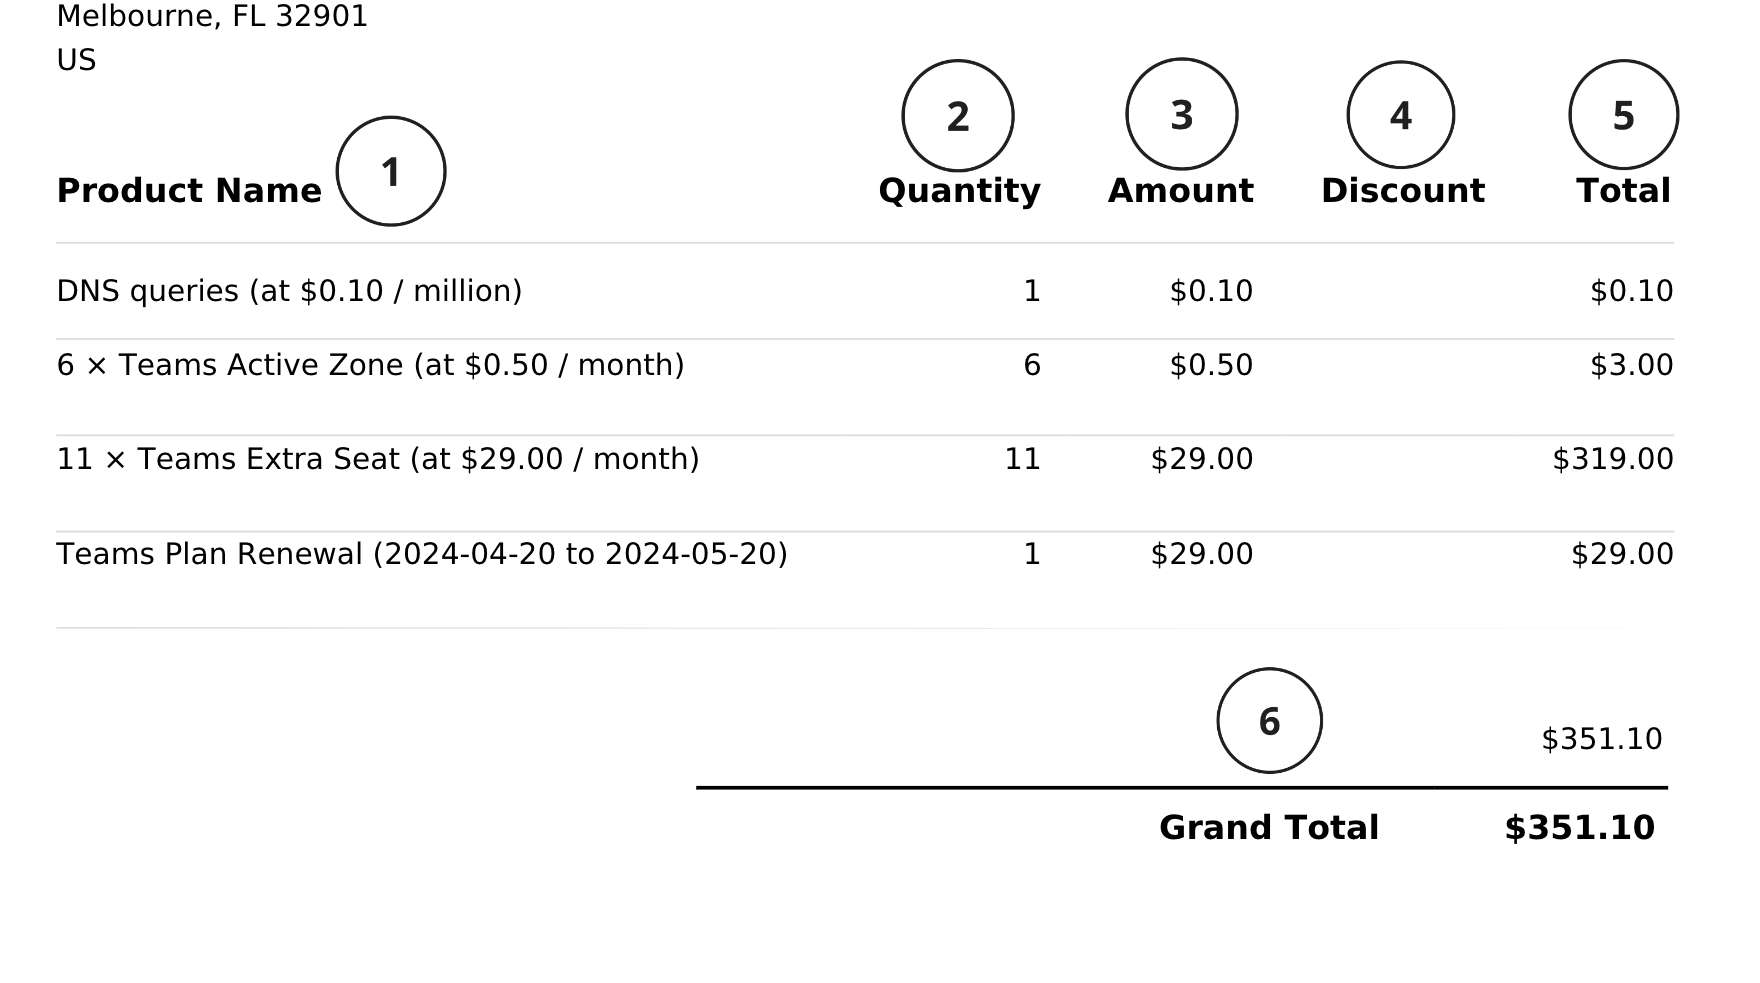
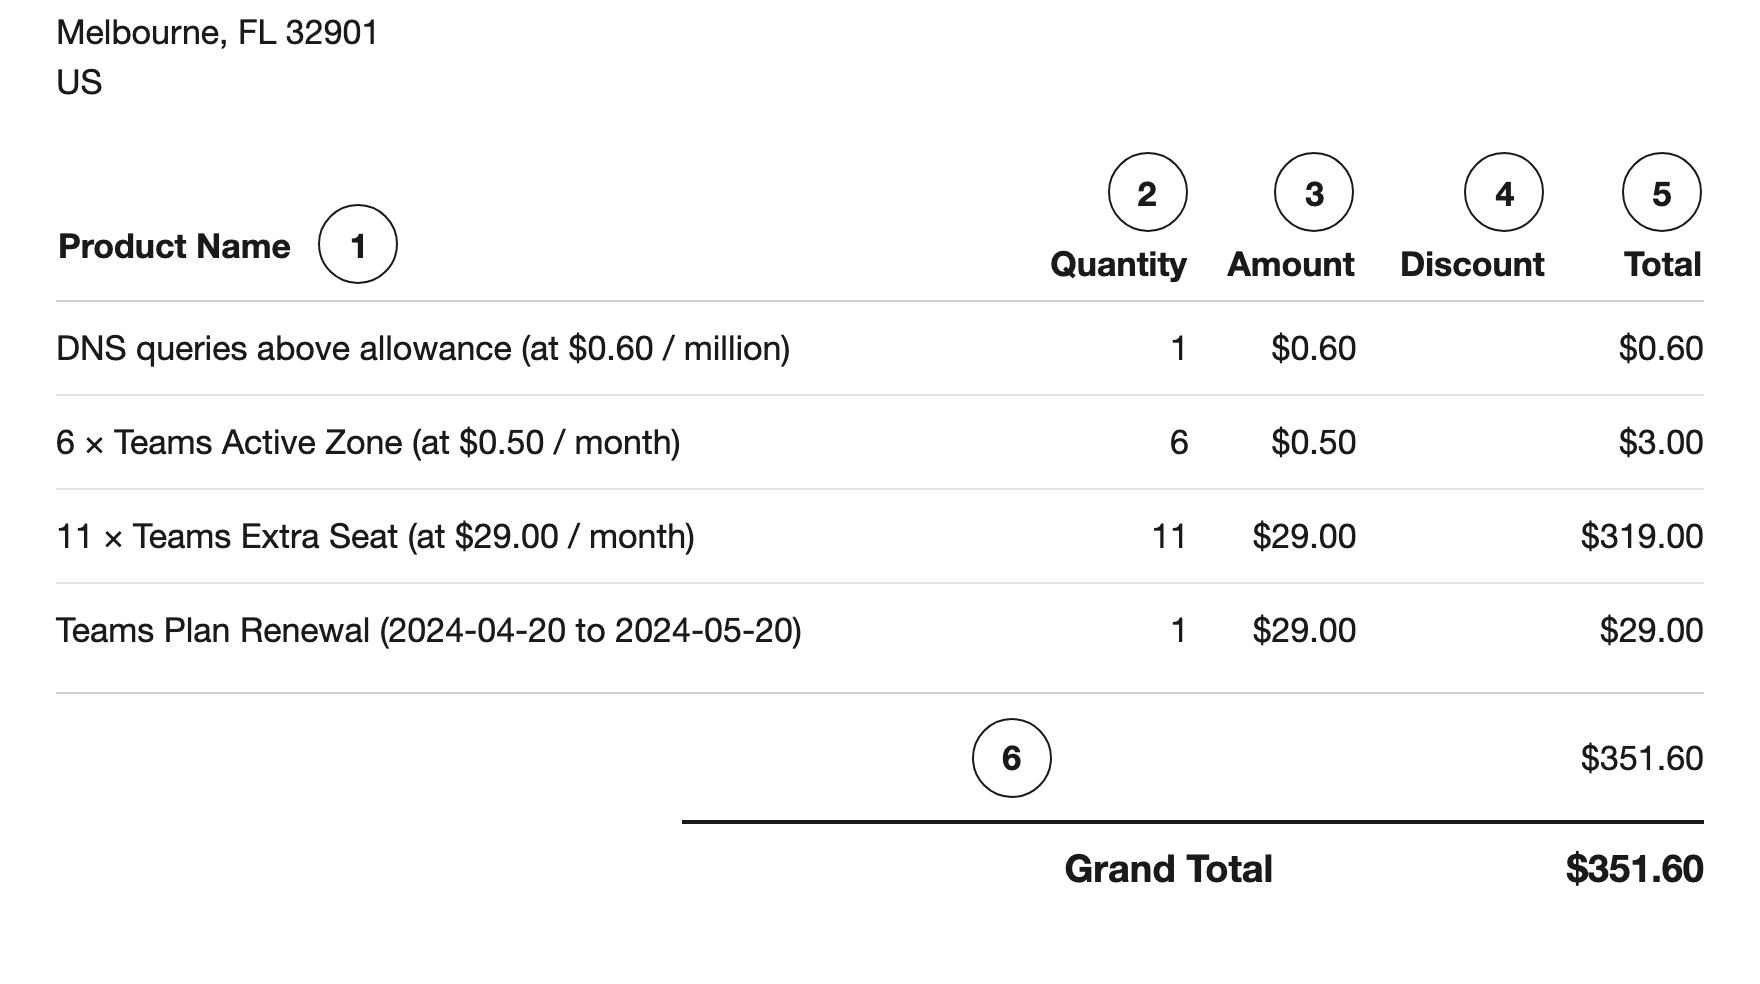
Document the included DNS query allowance (#2107)
* Add a markdownlint config matching the article conventions

markdownlint defaults contradict the house style on thousands of counts, and
the pre-commit hook re-runs with --fix on failure, so an unconfigured lint
would rewrite the corpus. Disable or configure the rules the conventions
override, and keep the rest on. Also close the one MD039 offence this turns up
in the plans article, so the file can be committed.

* Document the included DNS query allowance on Solo and Teams

Every zone on Solo and Teams now includes a monthly allowance of DNS queries at
no charge, and only the volume above it is billed. Rewrite the query fees
article around allowances and the new per-million rates, retitle it, and bring
the plans, invoice, and renewal articles in line so none of them still describe
billing from the first query.

* Align the balance note and the sample invoice with the allowance

* Qualify the allowance, pin the published anchors, use dashes

* Say when the allowance applies, and carry it into plan changes

The rewritten allowance article states the new pricing as though it
were already everyone's pricing. A subscription is assigned its query
pricing when it is created and when it changes plan, so an existing
subscriber reading the article sees an allowance their invoice does
not show yet. Answer that directly instead of leaving the note to
hint at it, and send them to the usage page, which states which
pricing the subscription is on.
[…]

diff --git a/content/articles/dns-query-limits.md b/content/articles/dns-query-limits.md
@@ -1,16 +1,14 @@
 ---
-title: DNS Query Volume Fees
-excerpt: We charge $0.10 per million queries per zone.
-meta: Learn about DNS query limits and pricing at DNSimple. Understand the cost of $0.10 per million queries per zone to optimize your domain management.
+title: DNS Query Allowances and Volume Fees
+excerpt: Every zone on a Solo or Teams plan includes a monthly allowance of DNS queries at no charge, and only the volume above that allowance is billed.
+meta: Solo includes 50,000 DNS queries per zone per month and Teams includes 500,000, at no charge. DNSimple bills only the query volume above your plan's allowance, at $0.80 per million on Solo and $0.60 per million on Teams.
 categories:
 - DNSimple
 ---
 
-# DNS Query Volume Fees
+# DNS Query Allowances and Volume Fees
 
-We charge $0.10 per million queries per zone on Solo and Teams plans.
-
-DNS query volume fees are calculated at this price every time the registered volume goes beyond any given million-query mark, starting at zero queries.
+Each zone on a Solo or Teams plan includes a monthly allowance of DNS queries at no charge, and DNSimple bills only the volume above it. Solo includes 50,000 queries per zone per month, then $0.80 per million. Teams includes 500,000 queries per zone per month, then $0.60 per million. Enterprise plans have custom contract pricing.
 
 ### Table of Contents {#toc}
 
@@ -19,38 +17,61 @@ DNS query volume fees are calculated at this price every time the registered vol
 
 ---
 
-## Calculating your fees
+## Query allowances and rates {#rates}
 
-- 1 - 999,999 queries is $0.10
-- 1M - 1,999,999 queries is $0.20
-- 2M - 2,999,999 queries is $0.30
+| Plan | Included per zone per month | Price above the allowance |
+|------|-----------------------------|---------------------------|
+| Solo | 50,000 queries | $0.80 per million |
+| Teams | 500,000 queries | $0.60 per million |
+| Enterprise | Custom | Custom |
 
-And so on.
+The allowance applies to each zone on its own. A zone that stays within its allowance costs nothing in query fees, no matter how many other zones you host. The allowance is not prorated, so every zone receives the full allowance in every billing cycle.
 
-We won't charge fractions of the price. Any volume greater or equal to 1M and less than 2M will cost $0.20.
+> [!NOTE]
+> Query pricing is set on your subscription when the subscription is created and when you change plans. To confirm the rates on your account, open the Billing and plans page or [contact support](/articles/dnsimple-support/).
+
+## Calculating your fees {#calculating-your-fees}
+
+Subtract the allowance from the zone's monthly query volume, round the remainder up to the next full million, and multiply by your plan's rate. DNSimple does not charge fractions of a million.
+
+On the Solo plan, with a 50,000-query allowance at $0.80 per million:
+
+- 40,000 queries is $0.00, because the zone stays within its allowance
+- 300,000 queries is $0.80, because the 250,000 queries above the allowance round up to one million
+- 1,200,000 queries is $1.60, because the 1,150,000 queries above the allowance round up to two million
+
+On the Teams plan, with a 500,000-query allowance at $0.60 per million:
+
+- 500,000 queries is $0.00
+- 900,000 queries is $0.60, because the 400,000 queries above the allowance round up to one million
+- 3,000,000 queries is $1.80, because the 2,500,000 queries above the allowance round up to three million
+
+Each zone is calculated separately, and the results are added together on your [invoice](/articles/understanding-invoice/).
 
 **Try our [pricing calculator](https://dnsimple.com/) to get an estimate of your zone query costs.**
 
-## Understanding your query volume
+## Understanding your query volume {#understanding-your-query-volume}
 
 ### What plans are affected by query volume fees?
 
-We currently charge query volume fees on Solo and Teams plans. Enterprise plans have custom pricing.
+DNSimple bills query volume on the Solo and Teams plans, and only for the volume above each zone's monthly allowance. Enterprise plans have custom contract pricing. The legacy Personal and Professional plans are not billed for query volume.
 
 ### Where can I see my current query volume?
 
-To view the query volume for your zones, go to your account settings page and click the "Billing and Plans" section. There, you will see the top 100 zones by query volume for the current billing period.
+To view the query volume for your zones, open <label>account settings</label>, click the <label>Billing and plans</label> tab, then click <label>View</label> in the <label>Plan usage</label> section.
+
+The page opens with a statement of the queries included per zone and the rate above them. Below that, you will see the top 100 zones by query volume for the current billing period, and for each zone, how far it sits above its allowance and the fees it has accrued.
 
 As an Enterprise customer, you have some additional capabilities:
 
-- You can filter by date range to understand the total query volume overage fees incurred during the selected period, along with a link to the corresponding invoices.
+- You can filter by date range to understand the total query volume fees incurred during the selected period, along with a link to the corresponding invoices.
 - You can also export the query volume for all your zones, not only the top 100, in the selected period as a CSV file.
 
 ![Enterprise query volume page showing top 100 zones, date filtering, and CSV export options](/files/enterprise-top-100-zones-query-volume.png)
 
-### How can I learn my zone volume if I'm planning to upgrade my plan?
+### How can I learn my zone volume if I am planning to upgrade my plan?
 
-[Contact support](/articles/dnsimple-support/), and we can give you your zones' query volume for the current billing period. You can also use our [pricing calculator](https://dnsimple.com/) to get an estimate of your costs.
+[Contact support](/articles/dnsimple-support/), and we can give you your zones' query volume for the current billing period. You can also use our [pricing calculator](https://dnsimple.com/) to get an estimate of your costs. Moving from Solo to [Teams](/articles/dnsimple-plans/#teams) raises the allowance on every zone from 50,000 to 500,000 queries per month and lowers the rate above it.
 
 ### What is a DNS query?
 
@@ -58,7 +79,11 @@ A DNS query is a message a client sends to the DNS server to request information
 
 ### What is the average query volume a zone registers?
 
-A typical zone will receive an average of 300K queries per month.
+A typical zone will receive an average of 300K queries per month. A zone at that volume is within the Teams allowance and incurs no query fees, and costs $0.80 per month on Solo.
+
+### Why does DNSimple charge for query volume?
+
+Serving DNS queries costs money. Hardware and network transit prices have risen, and query fees cover the cost of operating DNSimple's authoritative DNS network so that it stays fast and available everywhere it answers. Including an allowance with each plan keeps low-traffic zones free of query fees and bills only the zones that use the network heavily.
 
 ## Have more questions?
 

diff --git a/content/articles/dnsimple-plans.md b/content/articles/dnsimple-plans.md
@@ -22,6 +22,7 @@ You'll find all [the features listed for each plan on our pricing page](https://
 | Domain registration, transfer, renewal | Yes | Yes | Yes |
 | DNS zones with Anycast, DNSSEC, DDoS defense | Yes | Yes | Yes |
 | DNS records per zone | 100 | 1000 | Custom |
+| Included DNS queries per zone per month | 50,000 | 500,000 | Custom |
 | Let's Encrypt (root and www) | Yes | Yes | Yes |
 | Let's Encrypt custom hostnames | -- | Yes | Yes |
 | Let's Encrypt wildcard | -- | Yes | Yes |
@@ -45,7 +46,7 @@ DNSimple billing has three components:
 | Component | How it works |
 |-----------|-------------|
 | **Plan subscription** | A fixed monthly fee (Solo has no base fee, Teams starts at $29/month, Enterprise is custom). Covers access to your plan's features. |
-| **Usage-based charges** | Billed monthly based on your active zones and DNS query volume. These appear on your subscription invoice. See the [pricing page](https://dnsimple.com/pricing) for current rates. |
+| **Usage-based charges** | Billed monthly based on your active zones and any DNS query volume above each zone's included allowance. These appear on your subscription invoice. See the [pricing page](https://dnsimple.com/pricing) for current rates. |
 | **One-time purchases** | Domain registrations, renewals, transfers, and SSL certificates. Billed on separate invoices at the time of purchase. |
 
 For a detailed breakdown of invoice line items, see [Understanding Your Invoice](/articles/understanding-invoice/).
@@ -66,7 +67,7 @@ DNSimple's Solo plan provides anyone with a domain management platform where the
 
 ### Cost
 
-No base subscription fee. You will be charged on a pay-as-you-go basis, with fees determined by the number of active zones and their [DNS query volume](/articles/dns-query-limits/).
+No base subscription fee. You will be charged on a pay-as-you-go basis, with fees determined by the number of active zones and any [DNS query volume](/articles/dns-query-limits/) above each zone's included allowance.
 
 ### The Solo plan includes:
 
@@ -79,9 +80,9 @@ No base subscription fee. You will be charged on a pay-as-you-go basis, with fee
 - Email forwarding, billed monthly per domain at $2 for 1,000 messages/month.
 - [One-click Services](/articles/services/)
 - [Alias records](/articles/alias-record/)
-- [Zone queries](/articles/dns-query-limits/) billed monthly at $0.10 per million queries per zone per month
+- [Zone queries](/articles/dns-query-limits/) with 50,000 queries per zone per month included, then $0.80 per million above the allowance
 - [CAA Records](/articles/caa-record/)
-- [WHOIS privacy services ](/articles/whois-privacy/)
+- [WHOIS privacy services](/articles/whois-privacy/)
 - [Activity logs](/articles/activity-tracking/) for the past 30 days
 - [Webhooks](/articles/webhooks/)
 - Standard-level [support](/articles/dnsimple-support/) with responses within 24 hours on business days
@@ -109,6 +110,7 @@ $29 base monthly subscription fee — includes one seat with the ability to add
 - Scoped [API Access Tokens](/articles/api-access-token/)
 - [Domain Access Control](/articles/domain-access-control/) - specify different roles for your team members on a per-domain basis
 - Email forwarding billed monthly per domain at $2 for 10,000 messages/month
+- [Zone queries](/articles/dns-query-limits/) with 500,000 queries per zone per month included, then $0.60 per million above the allowance
 - Specify a custom [invoice](/articles/understanding-invoice/) email
 
 ## Enterprise

diff --git a/content/articles/understanding-invoice.md b/content/articles/understanding-invoice.md
@@ -23,13 +23,13 @@ Account owners receive invoices by email for charges throughout the billing cycl
 There are three types of invoices from DNSimple:
 
 - Subscription fee
-  - Solo - No base fee. Your hosted zones and query volume appear here.
+  - Solo - No base fee. Your hosted zones and any billable query volume appear here.
   - Teams - $29/month base fee
   - Enterprise - Custom pricing
 - Domain registration, transfer, and renewal purchases
 - Certificate purchases
 
-Solo and Teams plan subscribers see itemized billing for zones hosted on DNSimple and zone queries. Enterprise and higher plans receive custom billing rates.
+Solo and Teams plan subscribers see itemized billing for zones hosted on DNSimple and for the zone queries that exceed each zone's monthly allowance. Enterprise and higher plans receive custom billing rates.
 
 If you have multiple high-volume zones or receive a very high number of monthly queries, [contact sales](https://dnsimple.com/sales) for Enterprise pricing, and we will get you set up with what you need.
 
@@ -95,7 +95,7 @@ If you **downgrade** your plan (for example, moving from Teams to Solo), DNSimpl
 
 You are billed monthly for each [active DNS zone](/articles/activate-deactivate-dns-zone/) in your account. If you have zones you are not using, [deactivating them](/articles/activate-deactivate-dns-zone/#deactivating-a-dns-zone) stops the recurring charge for those zones. See the [pricing page](https://dnsimple.com/pricing) for current per-zone rates.
 
-[DNS query volume fees](/articles/dns-query-limits/) are also billed per active zone based on the number of queries each zone receives.
+[DNS query volume fees](/articles/dns-query-limits/) are also billed per active zone, on the queries a zone receives above its monthly allowance. Solo includes 50,000 queries per zone per month and Teams includes 500,000, so a zone that stays within its allowance produces no query charge.
 
 ## Common invoice questions {#faq}
 
@@ -103,7 +103,7 @@ You are billed monthly for each [active DNS zone](/articles/activate-deactivate-
 If the zone is still active in your account, it will appear on your invoice. [Deactivate the zone](/articles/activate-deactivate-dns-zone/#deactivating-a-dns-zone) to stop the charge.
 
 **What does my subscription fee cover?**
-Your subscription fee covers access to your [plan features](/articles/dnsimple-plans/). Zone hosting and query volume are billed separately as usage-based charges. Domain registrations, renewals, and certificates are purchases billed on separate invoices.
+Your subscription fee covers access to your [plan features](/articles/dnsimple-plans/). Zone hosting and query volume above your plan's allowance are billed separately as usage-based charges. Domain registrations, renewals, and certificates are purchases billed on separate invoices.
 
 **Where can I see current pricing?**
 Visit the [DNSimple pricing page](https://dnsimple.com/pricing) for up-to-date rates on subscriptions, zones, and queries.

diff --git a/content/articles/account-subscription-balance.md b/content/articles/account-subscription-balance.md
@@ -38,15 +38,15 @@ The plan section shows your current plan and the total estimated due on your nex
 
 This amount is broken up into:
 
-- [DNS queries](/articles/dns-query-limits/)
-- Subscription cost (Teams base fee only; Solo has no base subscription fee)
-- Active zones
-- Extra [seats](/articles/managing-seats/) (Teams plan and higher)
-- [Email forwards](/articles/email-forwarding/)
-- Account credits (when applicable)
+* [DNS queries](/articles/dns-query-limits/)
+* Subscription cost (Teams base fee only; Solo has no base subscription fee)
+* Active zones
+* Extra [seats](/articles/managing-seats/) (Teams plan and higher)
+* [Email forwards](/articles/email-forwarding/)
+* Account credits (when applicable)
 
 > [!NOTE]
-> Your subscription fee covers access to your [plan features](/articles/dnsimple-plans/). Zone hosting and query volume are usage-based charges billed separately from the base subscription fee.
+> Your subscription fee covers access to your [plan features](/articles/dnsimple-plans/). Zone hosting and query volume above your plan's allowance are billed separately as usage-based charges.
 
 ![Screenshot of billing and plans settings](/files/billing-and-plans-screenshot.png)
 
@@ -60,8 +60,8 @@ Click **View** in the **Plan usage** section to see more details about DNS query
 
 The **Account Credit** section shows credit available on the account. If your account has credit, future payments may be deducted from that credit. Account credits fall into two categories:
 
-- **Credit for subscriptions:** This credit is **only** used to cover subscription fees.
-- **Credit for [purchases](/articles/understanding-invoice/#purchases):** This credit is used when making purchases (register, renew, and transfer domains, SSL certificates, and so on). If necessary, DNSimple will also use this credit to cover your subscription fees before charging your card on file.
+* **Credit for subscriptions:** This credit is **only** used to cover subscription fees.
+* **Credit for [purchases](/articles/understanding-invoice/#purchases):** This credit is used when making purchases (register, renew, and transfer domains, SSL certificates, and so on). If necessary, DNSimple will also use this credit to cover your subscription fees before charging your card on file.
 
 ### Credit card {#credit-card}
 

diff --git a/content/articles/changing-plans.md b/content/articles/changing-plans.md
@@ -17,6 +17,8 @@ categories:
 
 Change your DNSimple subscription when you need features from a different plan. Compare options and estimate costs on the [pricing page](https://dnsimple.com/pricing).
 
+Changing your plan also sets the [DNS query allowance and rate](/articles/dns-query-limits/) on your subscription. Each plan includes a monthly allowance of queries per zone at no charge, and moving from Solo to Teams raises that allowance from 50,000 to 500,000 queries per zone and lowers the rate above it.
+
 For how proration appears on invoices, see [Understanding Your DNSimple Invoice](/articles/understanding-invoice/#proration).
 
 > [!NOTE]
@@ -26,7 +28,7 @@ For how proration appears on invoices, see [Understanding Your DNSimple Invoice]
 
 If you **upgrade** before your monthly renewal, the changes take effect and are billed immediately.
 
-You receive a prorated discount for unused time on your current subscription plan. This credit does not include extra items like email forwards or active zones, because these are pay-per-use features. These will be billed again as part of the plan change.
+You receive a prorated discount for unused time on your current subscription plan. This credit does not include extra items like email forwards, active zones, or [query volume](/articles/dns-query-limits/), because these are pay-per-use features. These will be billed again as part of the plan change.
 
 ## Downgrading your plan {#downgrading-your-plan}
 

diff --git a/content/articles/subscription-renewals.md b/content/articles/subscription-renewals.md
@@ -22,7 +22,7 @@ For Solo and Teams plans, the amount charged depends on:
 - The base price of your subscription (Teams only; Solo has no base subscription fee)
 - The number of seats (Teams only)
 - The number of domains in your account with active zones
-- The query volume of your domains
+- The [query volume](/articles/dns-query-limits/) of your zones above their included allowance
 - The number of email forwards configured
 
 Enterprise and Reseller clients have custom contracts based on their individual needs.
